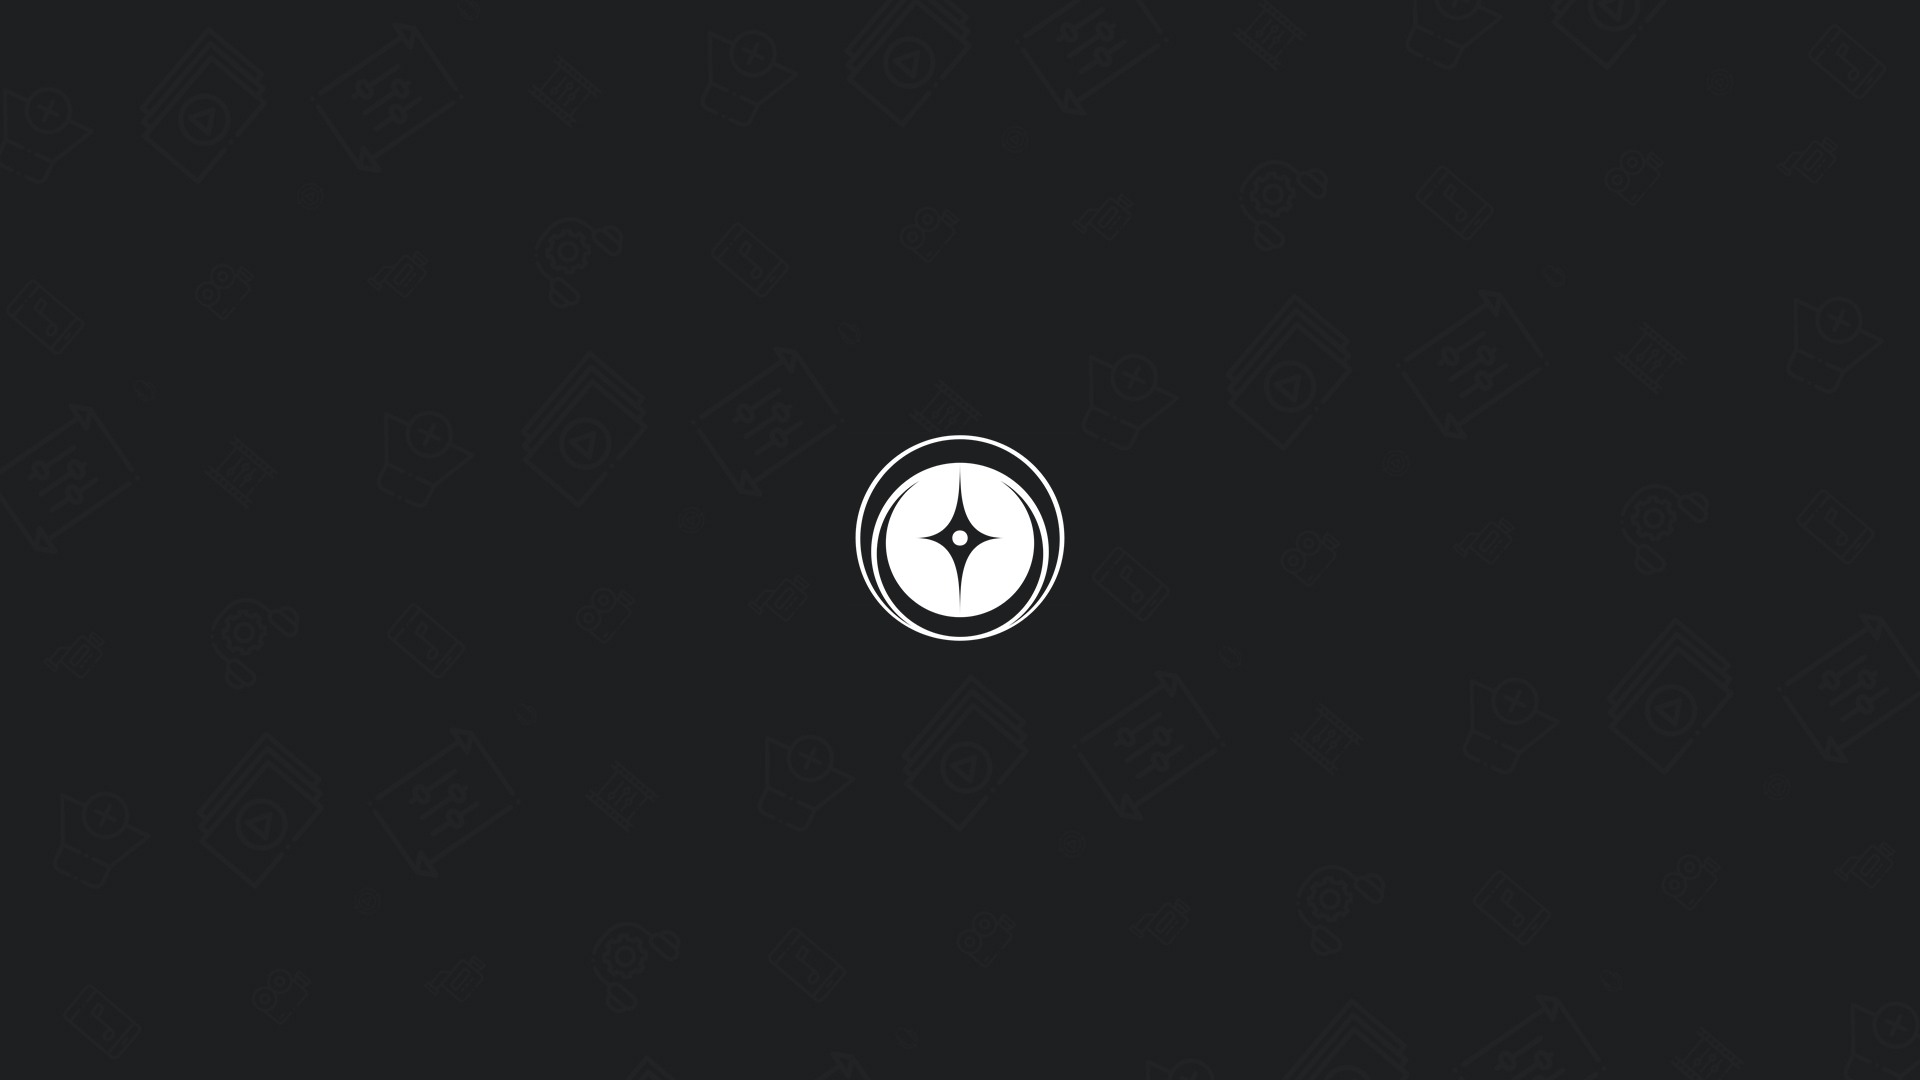
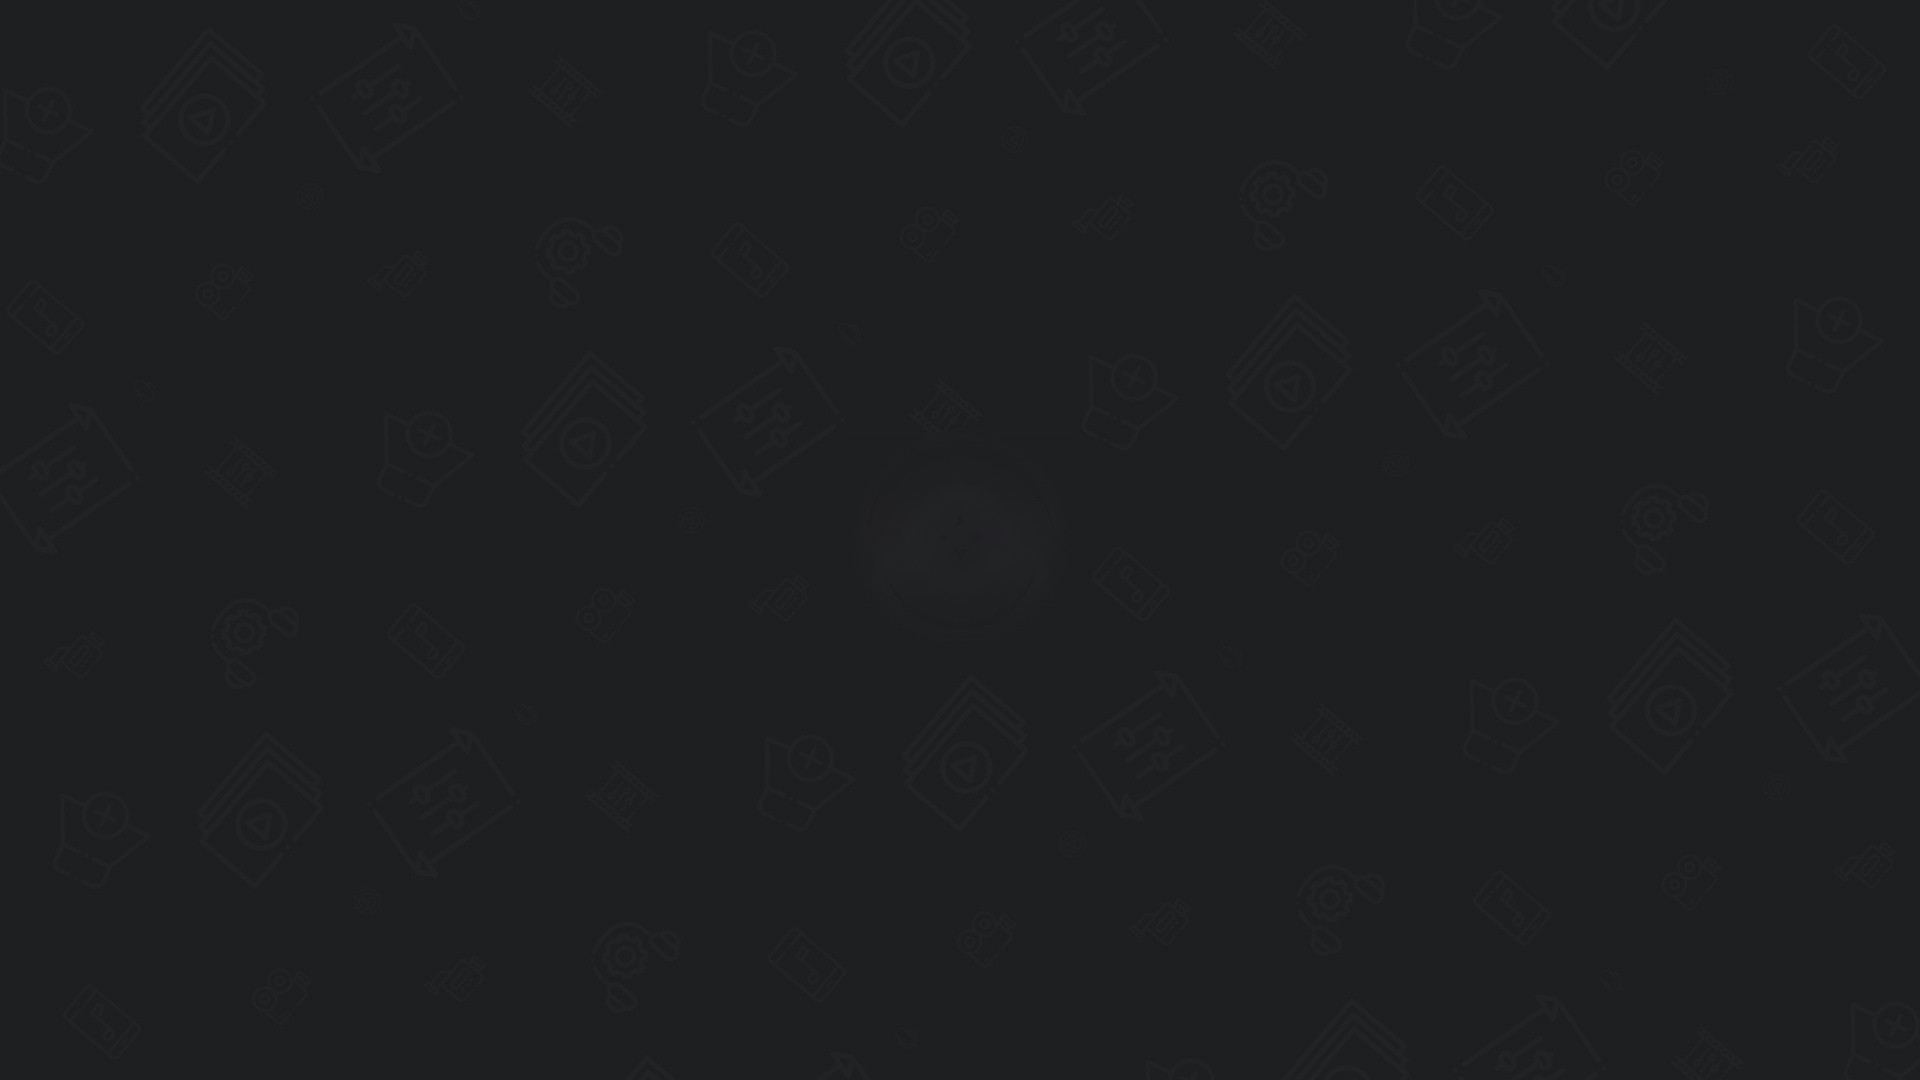
A static splash screen instead of an animated intro

Changed region(s): [[0.4375, 0.3972, 0.5625, 0.6111]]

diff --git a/src/custom/app/custom-welcome.js b/src/custom/app/custom-welcome.js
@@ -1,61 +1,29 @@
 /**
- * Netflix-style intro for Lampa — ULTRA optimized for TV hardware
+ * Static splash for Lampa — zero animation, TV-safe
  *
- * Every animated property is GPU-compositor-only (transform + opacity).
- * Zero: filter:blur(), text-shadow, box-shadow animation.
- *
- * Platform-aware — graceful degradation on older TV hardware:
- *   Orsay/Netcast → skip entirely (CSS animations unreliable)
- *   TV platforms  → LITE mode (1 beam, no CA, shorter duration)
- *   Others        → FULL mode (3 beams, chromatic aberration)
+ * Minimal, clean, distraction-free boot screen: flat background +
+ * compact centered logo. No keyframes, no transforms, no timers —
+ * removal is handled by the core (showApp fadeOut).
+ * Logo is inlined from a single source of truth (interaction/logo-icon.js
+ * <-> src/custom/logo.svg) — zero extra network requests during boot.
  */
 
-(function initNetflixStyleIntro() {
+import { logoSvg } from '../interaction/logo-icon'
+
+(function initStaticSplash() {
     'use strict'
 
     // ═══════════════════════════════════════════════════════════════
-    //  LEVEL 1 — Early guards (sync, zero DOM, zero Lampa)
+    //  Static splash — no guards, no modes, no animation
     // ═══════════════════════════════════════════════════════════════
 
-    // 1a. System prefers reduced motion
-    if (window.matchMedia && window.matchMedia('(prefers-reduced-motion: reduce)').matches)
-        return
-
-    // 1b. Legacy TV platforms where CSS animations are unreliable
-    var _ua = navigator.userAgent.toLowerCase()
-    if (/orsay|maple|netcast/i.test(_ua)) return
-
-    // 1c. User opted out via existing Lampa settings
-    try {
-        var _ls = window.localStorage
-        if (_ls && (_ls.getItem('light_version') === 'true' ||
-                     _ls.getItem('animation') === 'false'))
-            return
-    } catch (_e) {}
-
-    // 1d. CSS animation support detection (with -webkit- prefix for older WebKit)
-    var _probe = document.createElement('div')
-    _probe.style.animationName = 'x'
-    if (_probe.style.animationName !== 'x') {
-        _probe.style.webkitAnimationName = 'x'
-        if (_probe.style.webkitAnimationName !== 'x') return
-    }
-
     // ═══════════════════════════════════════════════════════════════
-    //  LEVEL 2 — State & config
-    // ═══════════════════════════════════════════════════════════════
-
-    var LITE_MODE = false
-    var TOTAL_DURATION = 3800
-    var introDone = false
-
-    // ═══════════════════════════════════════════════════════════════
-    //  LEVEL 3 — CSS (FULL + LITE overrides at the end)
+    //  LEVEL 3 — CSS (static, no keyframes)
     // ═══════════════════════════════════════════════════════════════
 
     var CSS = /* css */`
 /* ================================================================
-   Netflix Intro — Ultra GPU-optimized
+   Static splash — minimal, clean, distraction-free
    ================================================================ */
 
 .welcome {
@@ -79,15 +47,11 @@
     justify-content: center;
     overflow: hidden;
     background: #08080e;
-    -webkit-backface-visibility: hidden;
-    backface-visibility: hidden;
-    -webkit-transform: translate3d(0,0,0);
-    transform: translate3d(0,0,0);
-    animation: niOut 0.4s ease-in forwards;
-    animation-delay: 3.2s;
+    padding-bottom: 10vh;
+    box-sizing: border-box;
 }
 
-/* ── Vignette (static) ────────────────────────────────────────── */
+/* ── Vignette (static, flat — no animation) ───────────────────── */
 .netflix-intro__vig {
     position: absolute;
     top: 0; right: 0; bottom: 0; left: 0; /* inset:0 compat */
@@ -97,234 +61,63 @@
     background: radial-gradient(ellipse at center, transparent 30%, rgba(0,0,0,0.8) 100%);
 }
 
-/* ── Beams ────────────────────────────────────────────────────── */
-.netflix-intro__beams {
-    position: absolute;
-    top: 0; right: 0; bottom: 0; left: 0; /* inset:0 compat */
-    z-index: 1;
-    pointer-events: none;
-}
-
-.ni-b {
-    position: absolute;
-    top: 0;
-    height: 100%;
-    width: 4px;
-    -webkit-backface-visibility: hidden;
-    backface-visibility: hidden;
-    -webkit-transform: translate3d(0,0,0) scaleY(0);
-    transform: translate3d(0,0,0) scaleY(0);
-    animation: niBIn 0.9s cubic-bezier(0.16,1,0.3,1) forwards;
-    opacity: 0;
-}
-.ni-b--l { left: 30%;
-    background: -webkit-linear-gradient(to bottom, transparent, rgba(229,9,20,0.85) 30%, rgba(229,9,20,0.95) 50%, rgba(229,9,20,0.3) 80%, transparent);
-    background: linear-gradient(to bottom, transparent, rgba(229,9,20,0.85) 30%, rgba(229,9,20,0.95) 50%, rgba(229,9,20,0.3) 80%, transparent);
-    animation-delay: 0.3s; }
-.ni-b--c { left: 50%; width: 3px;
-    -webkit-transform: translate3d(0,0,0) rotate(-16deg) scaleY(0);
-    transform: translate3d(0,0,0) rotate(-16deg) scaleY(0);
-    background: -webkit-linear-gradient(to bottom, transparent, rgba(245,166,35,0.7) 25%, rgba(255,255,255,0.6) 50%, rgba(245,166,35,0.6) 75%, transparent);
-    background: linear-gradient(to bottom, transparent, rgba(245,166,35,0.7) 25%, rgba(255,255,255,0.6) 50%, rgba(245,166,35,0.6) 75%, transparent);
-    animation-delay: 0.55s; }
-.ni-b--r { left: 66%;
-    background: -webkit-linear-gradient(to bottom, transparent, rgba(229,9,20,0.8) 25%, rgba(229,9,20,0.95) 50%, rgba(229,9,20,0.25) 75%, transparent);
-    background: linear-gradient(to bottom, transparent, rgba(229,9,20,0.8) 25%, rgba(229,9,20,0.95) 50%, rgba(229,9,20,0.25) 75%, transparent);
-    animation-delay: 0.4s; }
-
-@keyframes niBIn {
-    0%   { opacity: 0;   -webkit-transform: translate3d(0,0,0) scaleY(0); transform: translate3d(0,0,0) scaleY(0); }
-    40%  { opacity: 0.7; }
-    100% { opacity: 0.9; -webkit-transform: translate3d(0,0,0) scaleY(1); transform: translate3d(0,0,0) scaleY(1); }
-}
-
-/* Override rotation for center beam */
-.ni-b--c {
-    animation-name: niBInC;
-}
-@keyframes niBInC {
-    0%   { opacity: 0;   -webkit-transform: translate3d(0,0,0) rotate(-16deg) scaleY(0); transform: translate3d(0,0,0) rotate(-16deg) scaleY(0); }
-    40%  { opacity: 0.7; }
-    100% { opacity: 0.85; -webkit-transform: translate3d(0,0,0) rotate(-16deg) scaleY(1); transform: translate3d(0,0,0) rotate(-16deg) scaleY(1); }
-}
-
-/* ── Title wrapper ────────────────────────────────────────────── */
+/* ── Logo wrapper (static — zero animation) ───────────────────── */
 .netflix-intro__tw {
     position: relative;
     z-index: 2;
     display: inline-block;
-    -webkit-backface-visibility: hidden;
-    backface-visibility: hidden;
-    -webkit-transform: translate3d(0,0,0) scale(0.8);
-    transform: translate3d(0,0,0) scale(0.8);
-    animation: niTwIn 1.2s cubic-bezier(0.16,1,0.3,1) forwards;
-    animation-delay: 1.0s;
-    opacity: 0;
 }
 
-/* Title text — no text-shadow, just color */
-.netflix-intro__title {
-    font-family: 'Helvetica Neue','Arial Black',sans-serif;
-    font-size: 100px; /* px fallback for vw-unsupported browsers */
-    font-size: 12vw;
-    font-weight: 900;
-    letter-spacing: 0.2em;
-    text-transform: uppercase;
-    color: #e50914;
-    text-align: center;
+/* Compact centered logo — inline SVG, no extra network request */
+.netflix-intro__logo {
+    display: block;
+    width: 96px; /* px fallback for vw-unsupported browsers */
+    width: 12vw;
+    max-width: 120px;
+    min-width: 72px;
     pointer-events: none;
     -webkit-user-select: none;
     -moz-user-select: none;
     -ms-user-select: none;
     user-select: none;
 }
-
-/* Chromatic aberration via layered spans (cheap — just text, no shadow) */
-.netflix-intro__ca {
-    position: absolute;
-    top: 0; right: 0; bottom: 0; left: 0; /* inset:0 compat */
-    pointer-events: none;
-    font: inherit;
-    font-size: inherit;
-    font-weight: inherit;
-    letter-spacing: inherit;
-    text-transform: inherit;
-    text-align: inherit;
-    color: transparent;
-    -webkit-text-stroke: 2px #00d4aa;
-    -webkit-transform: translate(3px, 3px);
-    transform: translate(3px, 3px);
-    opacity: 0.5;
-}
-.netflix-intro__ca2 {
-    -webkit-transform: translate(-3px, -3px);
-    transform: translate(-3px, -3px);
-    -webkit-text-stroke: 2px #ff5e3a;
-    opacity: 0.4;
-}
-
-@keyframes niTwIn {
-    0%   { opacity: 0; -webkit-transform: translate3d(0,0,0) scale(0.7); transform: translate3d(0,0,0) scale(0.7); }
-    40%  { opacity: 0.8; }
-    65%  { opacity: 1; -webkit-transform: translate3d(0,0,0) scale(1); transform: translate3d(0,0,0) scale(1); }
-    100% { opacity: 1; -webkit-transform: translate3d(0,0,0) scale(1.04); transform: translate3d(0,0,0) scale(1.04); }
-}
-
-/* ── Zoom-out (modest scale — avoids huge GPU texture) ────────── */
-@keyframes niOut {
-    0%   { opacity: 1; -webkit-transform: translate3d(0,0,0) scale(1); transform: translate3d(0,0,0) scale(1); }
-    100% { opacity: 0; -webkit-transform: translate3d(0,0,0) scale(1.25); transform: translate3d(0,0,0) scale(1.25); }
+.netflix-intro__logo svg {
+    display: block;
+    width: 100%;
+    height: auto;
 }
 
 /* ── Responsive cap ───────────────────────────────────────────── */
 @media (min-width: 1000px) {
-    .netflix-intro__title { font-size: 100px; }
-}
-
-/* ── LITE MODE OVERRIDES ──────────────────────────────────────── */
-/* Applied via .netflix-intro--lite on the container.
-   Hides side beams + chromatic aberration spans,
-   shortens all delays and durations for ~2.5s total. */
-
-.netflix-intro--lite .ni-b--l,
-.netflix-intro--lite .ni-b--r,
-.netflix-intro--lite .netflix-intro__ca {
-    display: none !important;
-}
-
-.netflix-intro--lite .ni-b--c {
-    animation-delay: 0.15s;
-}
-
-.netflix-intro--lite .netflix-intro__tw {
-    animation-delay: 0.4s;
-    animation-duration: 0.8s;
-}
-
-.netflix-intro--lite.netflix-intro {
-    animation-name: niOutLite;
-    animation-delay: 2.0s;
-    animation-duration: 0.3s;
-}
-
-@keyframes niOutLite {
-    0%   { opacity: 1; -webkit-transform: translate3d(0,0,0) scale(1); transform: translate3d(0,0,0) scale(1); }
-    100% { opacity: 0; -webkit-transform: translate3d(0,0,0) scale(1.1); transform: translate3d(0,0,0) scale(1.1); }
+    .netflix-intro__logo { width: 120px; }
 }
 `
 
     // ═══════════════════════════════════════════════════════════════
-    //  LEVEL 4 — HTML templates
+    //  LEVEL 4 — Static template (single variant, no modes)
     // ═══════════════════════════════════════════════════════════════
 
-    var FULL_HTML = `
-<div class="netflix-intro">
-    <div class="netflix-intro__vig"></div>
-    <div class="netflix-intro__beams">
-        <div class="ni-b ni-b--l"></div>
-        <div class="ni-b ni-b--c"></div>
-        <div class="ni-b ni-b--r"></div>
-    </div>
-    <div class="netflix-intro__tw">
-        <h1 class="netflix-intro__title">Сяйво</h1>
-    </div>
-</div>`
+    var LOGO_HTML = '<div class="netflix-intro__logo" role="img" aria-label="Сяйво">' + logoSvg + '</div>'
 
-    var LITE_HTML = `
-<div class="netflix-intro netflix-intro--lite">
-    <div class="netflix-intro__vig"></div>
-    <div class="netflix-intro__beams">
-        <div class="ni-b ni-b--c"></div>
-    </div>
-    <div class="netflix-intro__tw">
-        <h1 class="netflix-intro__title">Сяйво</h1>
-    </div>
-</div>`
+    var SPLASH_HTML = '\n<div class="netflix-intro">\n'
+        + '    <div class="netflix-intro__vig"></div>\n'
+        + '    <div class="netflix-intro__tw">'
+        + LOGO_HTML
+        + '</div>\n</div>'
 
     // ═══════════════════════════════════════════════════════════════
-    //  LEVEL 5 — injectHTML
+    //  LEVEL 5 — injectHTML (no animation tracking, core removes .welcome)
     // ═══════════════════════════════════════════════════════════════
 
     function injectHTML() {
         var w = document.querySelector('.welcome')
         if (!w) { setTimeout(injectHTML, 30); return }
 
-        w.innerHTML = LITE_MODE ? LITE_HTML : FULL_HTML
-        w.setAttribute('data-intro', 'active')
-
-        var intro = w.querySelector('.netflix-intro')
-        if (intro) {
-            var _animEnd = 'animationend'
-            if (!('animationend' in document.createElement('div')))
-                _animEnd = 'webkitAnimationEnd'
-            intro.addEventListener(_animEnd, function h(e) {
-                if (e.animationName === 'niOut' || e.animationName === 'niOutLite') {
-                    introDone = true
-                    w.setAttribute('data-intro', 'done')
-                    w.style.opacity = '0'
-                    w.style.pointerEvents = 'none'
-                    setTimeout(function () {
-                        if (w.parentNode) w.style.display = 'none'
-                    }, 500)
-                }
-            })
-        }
-
-        setTimeout(function () {
-            if (!introDone) {
-                introDone = true
-                w.setAttribute('data-intro', 'done')
-                w.style.opacity = '0'
-                w.style.pointerEvents = 'none'
-                setTimeout(function () {
-                    if (w.parentNode) w.style.display = 'none'
-                }, 500)
-            }
-        }, TOTAL_DURATION + 500)
+        w.innerHTML = SPLASH_HTML
     }
 
     // ═══════════════════════════════════════════════════════════════
-    //  LEVEL 6 — Boot: insert CSS, check Lampa, then inject HTML
+    //  LEVEL 6 — Boot: insert CSS, inject HTML immediately
     // ═══════════════════════════════════════════════════════════════
 
     function boot() {
@@ -333,28 +126,7 @@
         style.textContent = CSS
         document.head.appendChild(style)
 
-        // Async Lampa check — detect TV platform for LITE mode
-        // Injects HTML immediately once Lampa is available (or timeout)
-        function checkThenInject(remaining) {
-            if (window.Lampa && Lampa.Platform && Lampa.Storage) {
-                if (Lampa.Platform.tv()) {
-                    LITE_MODE = true
-                    TOTAL_DURATION = 2500
-                }
-                try {
-                    if (Lampa.Storage.field('light_version') ||
-                        Lampa.Storage.field('animation') === false)
-                        return  /* user opted out — skip animation entirely */
-                } catch (_e) {}
-                injectHTML()
-            } else if (remaining > 0) {
-                setTimeout(function () { checkThenInject(remaining - 1) }, 80)
-            } else {
-                injectHTML()  /* timeout — proceed without Lampa info */
-            }
-        }
-
-        checkThenInject(25)  /* ~2s max wait (25 × 80ms) */
+        injectHTML()
     }
 
     // ═══════════════════════════════════════════════════════════════

diff --git a/src/custom/core/manifest.js b/src/custom/core/manifest.js
@@ -4,7 +4,7 @@ const manifestData = {
     author: 'Siaivo',
     storeUrl: 'https://raw.githubusercontent.com/Siaivo/Hub/refs/heads/main/data/base.json',
     github: 'https://github.com/Siaivo/siaivo.github.io',
-    patch_version: 24,
+    patch_version: 25,
     cub_site: 'cub.red',
     apk_link_download: 'https://github.com/lampa-app/LAMPA/releases/download/v1.12.3/app-lite-release.apk'
 }
